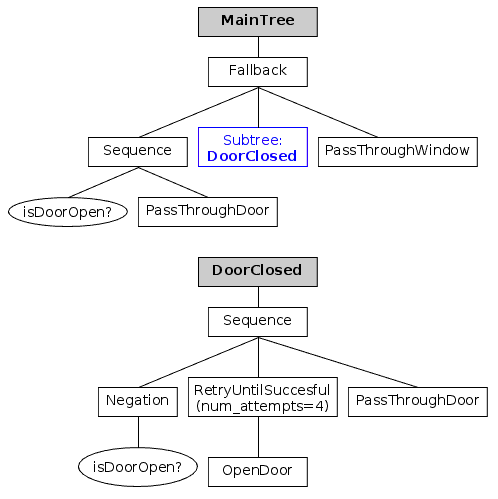
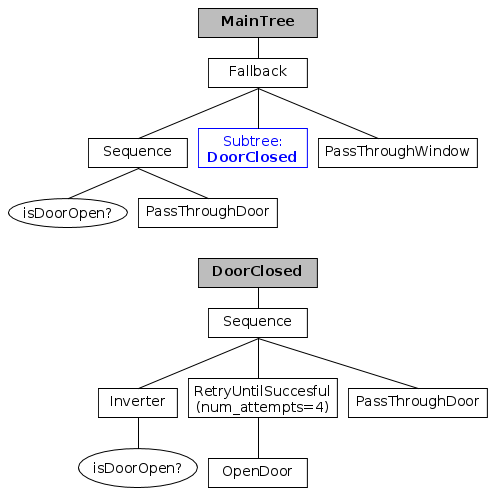
Renaming: Negation->Inverter and Deadline->Timeout

diff --git a/src/bt_factory.cpp b/src/bt_factory.cpp
@@ -23,9 +23,10 @@ BehaviorTreeFactory::BehaviorTreeFactory()
     registerNodeType<SequenceNode>("Sequence");
     registerNodeType<SequenceNodeWithMemory>("SequenceStar");
 
-    registerNodeType<NegationNode>("Negation");
+    registerNodeType<InverterNode>("Inverter");
     registerNodeType<RetryNode>("RetryUntilSuccesful");
     registerNodeType<RepeatNode>("Repeat");
+    registerNodeType<TimeoutNode>("Timeout");
 
     registerNodeType<ForceSuccessDecorator>("ForceSuccess");
     registerNodeType<ForceFailureDecorator>("ForceFailure");
@@ -39,8 +40,6 @@ BehaviorTreeFactory::BehaviorTreeFactory()
     registerNodeType<BlackboardPreconditionNode<int>>("BlackboardCheckInt");
     registerNodeType<BlackboardPreconditionNode<double>>("BlackboardCheckDouble");
     registerNodeType<BlackboardPreconditionNode<std::string>>("BlackboardCheckString");
-
-    registerNodeType<DeadlineNode>("Deadline");
 }
 
 bool BehaviorTreeFactory::unregisterBuilder(const std::string& ID)
@@ -64,27 +63,6 @@ void BehaviorTreeFactory::registerBuilder(const std::string& ID, NodeBuilder bui
 
     builders_.insert(std::make_pair(ID, builder));
 }
-
-//void BehaviorTreeFactory::registerSimpleCondition(const std::string &ID,
-//                                                  const std::function<NodeStatus()> &tick_functor)
-//{
-//    auto wrapper = [tick_functor](const Blackboard::Ptr&){ return tick_functor(); };
-//    registerSimpleCondition(ID, wrapper);
-//}
-
-//void BehaviorTreeFactory::registerSimpleAction(const std::string& ID,
-//                                               const std::function<NodeStatus()> &tick_functor)
-//{
-//    auto wrapper = [tick_functor](const Blackboard::Ptr&){ return tick_functor(); };
-//    registerSimpleAction(ID, wrapper);
-//}
-
-//void BehaviorTreeFactory::registerSimpleDecorator(const std::string& ID,
-//                                                  const std::function<NodeStatus(NodeStatus)> &tick_functor)
-//{
-//    auto wrapper = [tick_functor](NodeStatus status, const Blackboard::Ptr&){ return tick_functor(status); };
-//    registerSimpleDecorator(ID, wrapper);
-//}
 
 void BehaviorTreeFactory::registerSimpleCondition(const std::string &ID,
                                                   const SimpleConditionNode::TickFunctor &tick_functor)

diff --git a/gtest/gtest_factory.cpp b/gtest/gtest_factory.cpp
@@ -19,7 +19,7 @@ const std::string xml_text = R"(
             </Sequence>
 
             <Sequence name="door_closed_sequence">
-                <Decorator ID="Negation">
+                <Decorator ID="Inverter">
                      <Action ID="IsDoorOpen" />
                 </Decorator>
                 <Action ID="OpenDoor" />
@@ -56,7 +56,7 @@ const std::string xml_text_subtree = R"(
 
   <BehaviorTree ID="CrossDoorSubtree">
     <Sequence name="door_sequence">
-      <Decorator ID="Negation">
+      <Decorator ID="Inverter">
         <Action ID="IsDoorLocked" />
       </Decorator>
       <Action ID="OpenDoor" />
@@ -123,12 +123,12 @@ TEST(BehaviorTreeFactory, VerifyLargeTree)
     ASSERT_TRUE(sequence_closed != nullptr);
 
     ASSERT_EQ(sequence_closed->children().size(), 4);
-    ASSERT_EQ(sequence_closed->child(0)->name(), "Negation");
+    ASSERT_EQ(sequence_closed->child(0)->name(), "Inverter");
     ASSERT_EQ(sequence_closed->child(1)->name(), "OpenDoor");
     ASSERT_EQ(sequence_closed->child(2)->name(), "PassThroughDoor");
     ASSERT_EQ(sequence_closed->child(3)->name(), "CloseDoor");
 
-    auto decorator = dynamic_cast<const BT::NegationNode*>(sequence_closed->child(0));
+    auto decorator = dynamic_cast<const BT::InverterNode*>(sequence_closed->child(0));
     ASSERT_TRUE(decorator != nullptr);
 
     ASSERT_EQ(decorator->child()->name(), "IsDoorOpen");
@@ -173,12 +173,12 @@ TEST(BehaviorTreeFactory, Subtree)
     ASSERT_TRUE(sequence != nullptr);
 
     ASSERT_EQ(sequence->children().size(), 4);
-    ASSERT_EQ(sequence->child(0)->name(), "Negation");
+    ASSERT_EQ(sequence->child(0)->name(), "Inverter");
     ASSERT_EQ(sequence->child(1)->name(), "OpenDoor");
     ASSERT_EQ(sequence->child(2)->name(), "PassThroughDoor");
     ASSERT_EQ(sequence->child(3)->name(), "CloseDoor");
 
-    auto decorator = dynamic_cast<const BT::NegationNode*>(sequence->child(0));
+    auto decorator = dynamic_cast<const BT::InverterNode*>(sequence->child(0));
     ASSERT_TRUE(decorator != nullptr);
 
     ASSERT_EQ(decorator->child()->name(), "IsDoorLocked");

diff --git a/include/behavior_tree_core/decorators/inverter_node.h b/include/behavior_tree_core/decorators/inverter_node.h
@@ -1,4 +1,4 @@
-/* Copyright (C) 2015-2018 Michele Colledanchise -  All Rights Reserved
+/* Copyright (C) 2018 Michele Colledanchise -  All Rights Reserved
  * Copyright (C) 2018 Davide Faconti -  All Rights Reserved
 *
 *   Permission is hereby granted, free of charge, to any person obtaining a copy of this software and associated documentation files (the "Software"),
@@ -11,19 +11,19 @@
 *   WHETHER IN AN ACTION OF CONTRACT, TORT OR OTHERWISE, ARISING FROM, OUT OF OR IN CONNECTION WITH THE SOFTWARE OR THE USE OR OTHER DEALINGS IN THE SOFTWARE.
 */
 
-#ifndef DECORATORNEGATIONNODE_H
-#define DECORATORNEGATIONNODE_H
+#ifndef DECORATOR_INVERTER_NODE_H
+#define DECORATOR_INVERTER_NODE_H
 
 #include "behavior_tree_core/decorator_node.h"
 
 namespace BT
 {
-class NegationNode : public DecoratorNode
+class InverterNode : public DecoratorNode
 {
   public:
-    NegationNode(const std::string& name);
+    InverterNode(const std::string& name);
 
-    virtual ~NegationNode() override = default;
+    virtual ~InverterNode() override = default;
 
   private:
     virtual BT::NodeStatus tick() override;

diff --git a/src/decorators/timeout_node.cpp b/src/decorators/timeout_node.cpp
@@ -1,8 +1,8 @@
-#include "behavior_tree_core/decorators/deadline_node.h"
+#include "behavior_tree_core/decorators/timeout_node.h"
 
 namespace BT {
 
-DeadlineNode::DeadlineNode(const std::string &name,
+TimeoutNode::TimeoutNode(const std::string &name,
                                unsigned milliseconds):
     DecoratorNode(name, {}),
     child_halted_(false),
@@ -11,7 +11,7 @@ DeadlineNode::DeadlineNode(const std::string &name,
 
 }
 
-DeadlineNode::DeadlineNode(const std::string &name,
+TimeoutNode::TimeoutNode(const std::string &name,
                                const BT::NodeParameters &params) :
     DecoratorNode(name, params),
     child_halted_(false),
@@ -24,7 +24,7 @@ DeadlineNode::DeadlineNode(const std::string &name,
     }
 }
 
-NodeStatus DeadlineNode::tick()
+NodeStatus TimeoutNode::tick()
 {
     if( status() == NodeStatus::IDLE )
     {

diff --git a/include/behavior_tree_core/behavior_tree.h b/include/behavior_tree_core/behavior_tree.h
@@ -24,7 +24,7 @@
 #include "behavior_tree_core/action_node.h"
 #include "behavior_tree_core/condition_node.h"
 
-#include "behavior_tree_core/decorators/negation_node.h"
+#include "behavior_tree_core/decorators/inverter_node.h"
 #include "behavior_tree_core/decorators/retry_node.h"
 #include "behavior_tree_core/decorators/repeat_node.h"
 #include "behavior_tree_core/decorators/subtree_node.h"
@@ -35,8 +35,8 @@
 
 #include "behavior_tree_core/decorators/force_success_node.h"
 #include "behavior_tree_core/decorators/force_failure_node.h"
-#include "behavior_tree_core/decorators/blackboard_precondition_node.h"
-#include "behavior_tree_core/decorators/deadline_node.h"
+#include "behavior_tree_core/decorators/blackboard_precondition.h"
+#include "behavior_tree_core/decorators/timeout_node.h"
 
 namespace BT
 {

diff --git a/include/behavior_tree_core/decorators/timeout_node.h b/include/behavior_tree_core/decorators/timeout_node.h
@@ -1,5 +1,5 @@
-#ifndef DEADLINE_NODE_H
-#define DEADLINE_NODE_H
+#ifndef DECORATOR_TIMEOUT_NODE_H
+#define DECORATOR_TIMEOUT_NODE_H
 
 #include "behavior_tree_core/decorator_node.h"
 #include <atomic>
@@ -7,13 +7,13 @@
 
 namespace BT
 {
-class DeadlineNode : public DecoratorNode
+class TimeoutNode : public DecoratorNode
 {
   public:
 
-    DeadlineNode(const std::string& name, unsigned milliseconds);
+    TimeoutNode(const std::string& name, unsigned milliseconds);
 
-    DeadlineNode(const std::string& name,const NodeParameters& params);
+    TimeoutNode(const std::string& name,const NodeParameters& params);
 
     static const NodeParameters& requiredNodeParameters()
     {

diff --git a/src/decorators/inverter_node.cpp b/src/decorators/inverter_node.cpp
@@ -11,15 +11,15 @@
 *   WHETHER IN AN ACTION OF CONTRACT, TORT OR OTHERWISE, ARISING FROM, OUT OF OR IN CONNECTION WITH THE SOFTWARE OR THE USE OR OTHER DEALINGS IN THE SOFTWARE.
 */
 
-#include "behavior_tree_core/decorators/negation_node.h"
+#include "behavior_tree_core/decorators/inverter_node.h"
 
 namespace BT
 {
-NegationNode::NegationNode(const std::string& name) : DecoratorNode(name, NodeParameters())
+InverterNode::InverterNode(const std::string& name) : DecoratorNode(name, NodeParameters())
 {
 }
 
-NodeStatus NegationNode::tick()
+NodeStatus InverterNode::tick()
 {
     setStatus(NodeStatus::RUNNING);
 

diff --git a/examples/crossdoor_example.cpp b/examples/crossdoor_example.cpp
@@ -16,9 +16,9 @@ const std::string xml_text = R"(
 	<!--------------------------------------->
     <BehaviorTree ID="DoorClosed">
         <Sequence name="door_closed_sequence">
-            <Negation>
+            <Inverter>
                 <Condition ID="IsDoorOpen"/>
-            </Negation>
+            </Inverter>
             <RetryUntilSuccesful num_attempts="4">
                 <OpenDoor/>
             </RetryUntilSuccesful>

diff --git a/gtest/gtest_decorator.cpp b/gtest/gtest_decorator.cpp
@@ -20,7 +20,7 @@ using BT::NodeStatus;
 
 struct DeadlineTest : testing::Test
 {
-    BT::DeadlineNode root;
+    BT::TimeoutNode root;
     BT::AsyncActionTest action;
 
     DeadlineTest()

diff --git a/docs/tutorial_D_subtrees.md b/docs/tutorial_D_subtrees.md
@@ -30,9 +30,9 @@ Multiple BehaviorTrees can be created and composed in the XML itself.
 	<!--------------------------------------->
     <BehaviorTree ID="DoorClosed">
         <Sequence name="door_closed_sequence">
-            <Negation>
+            <Inverter>
                 <IsDoorOpen/>
-            </Negation>
+            </Inverter>
             <RetryUntilSuccesful num_attempts="4">
                 <OpenDoor/>
             </RetryUntilSuccesful>

diff --git a/docs/BT_basics.md b/docs/BT_basics.md
@@ -96,8 +96,8 @@ You can create your own Decorators.
 
 ![Simple Decorator: Enter Room](images/DecoratorEnterRoom.png)
 
-The node __Negation__ is a Decorator that inverts 
-the result returned by its child; Negation followed by the node called
+The node __Inverter__ is a Decorator that inverts 
+the result returned by its child; Inverter followed by the node called
 __DoorOpen__ is therefore equivalent to 
 
     "Is the door closed?".
